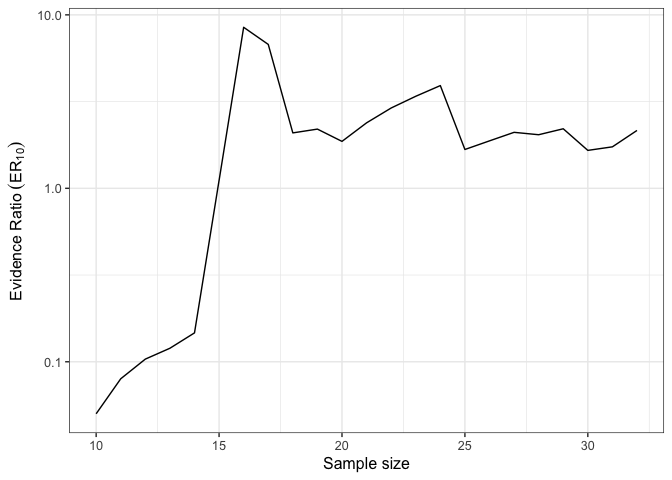
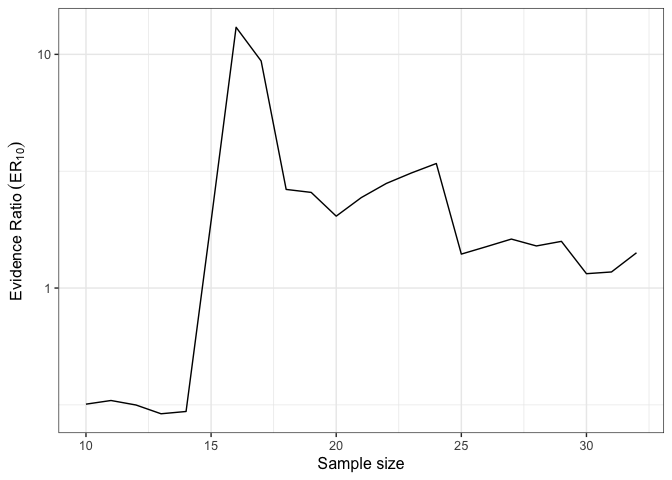
doc updates + updates on ictab.R to be able to compare brmsfits models with brms::WAIC and brms::LOO

diff --git a/README.md b/README.md
@@ -5,7 +5,7 @@ ESTER: Efficient Sequential Testing with Evidence Ratios
 
 [![CRAN status](http://www.r-pkg.org/badges/version/ESTER)](https://cran.r-project.org/package=ESTER) [![Build Status](https://travis-ci.org/lnalborczyk/ESTER.svg?branch=master)](https://travis-ci.org/lnalborczyk/ESTER)
 
-`ESTER` offers an implementation of sequential testing that uses evidence ratios computed from the so-called Akaike weights, that are based on either the Akaike Information Criterion (AIC) or the Bayesian Information Criterion (BIC). It allows to do sequential testing on observed data and to study the behaviour of sequential evidence ratios on simulated data as well.
+`ESTER` offers an implementation of sequential testing that uses evidence ratios computed from the Akaike weights and based on either the Akaike Information Criterion (AIC) or the Bayesian Information Criterion (BIC).
 
 Installation
 ------------
@@ -39,7 +39,7 @@ ER <- simER(cohensd = 0.6, nmin = 20, n = 100, ic = aic, plot = TRUE)
 We also can study the distribution of evidence ratios for `nSims` simulations ran with the previous function using `distER`.
 
 ``` r
-ER <- distER(cohensd = 0.6, nmin = 20, n = 100, ic = bic, nsims = 100)
+ER <- distER(cohensd = 0.6, nmin = 20, n = 100, ic = aic, nsims = 100)
 ```
 
 ![](README-unnamed-chunk-3-1.png)
@@ -53,7 +53,7 @@ On the other hand (and perhaps more interestingly), `ESTER` can be used to do se
 data(mtcars)
 mod1 <- lm(mpg ~ cyl, mtcars)
 mod2 <- lm(mpg ~ cyl + disp, mtcars)
-plot(seqER(ic = aic, mod1, mod2, nmin = 10) )
+plot(seqER(ic = bic, mod1, mod2, nmin = 10) )
 ```
 
 ![](README-unnamed-chunk-4-1.png)
